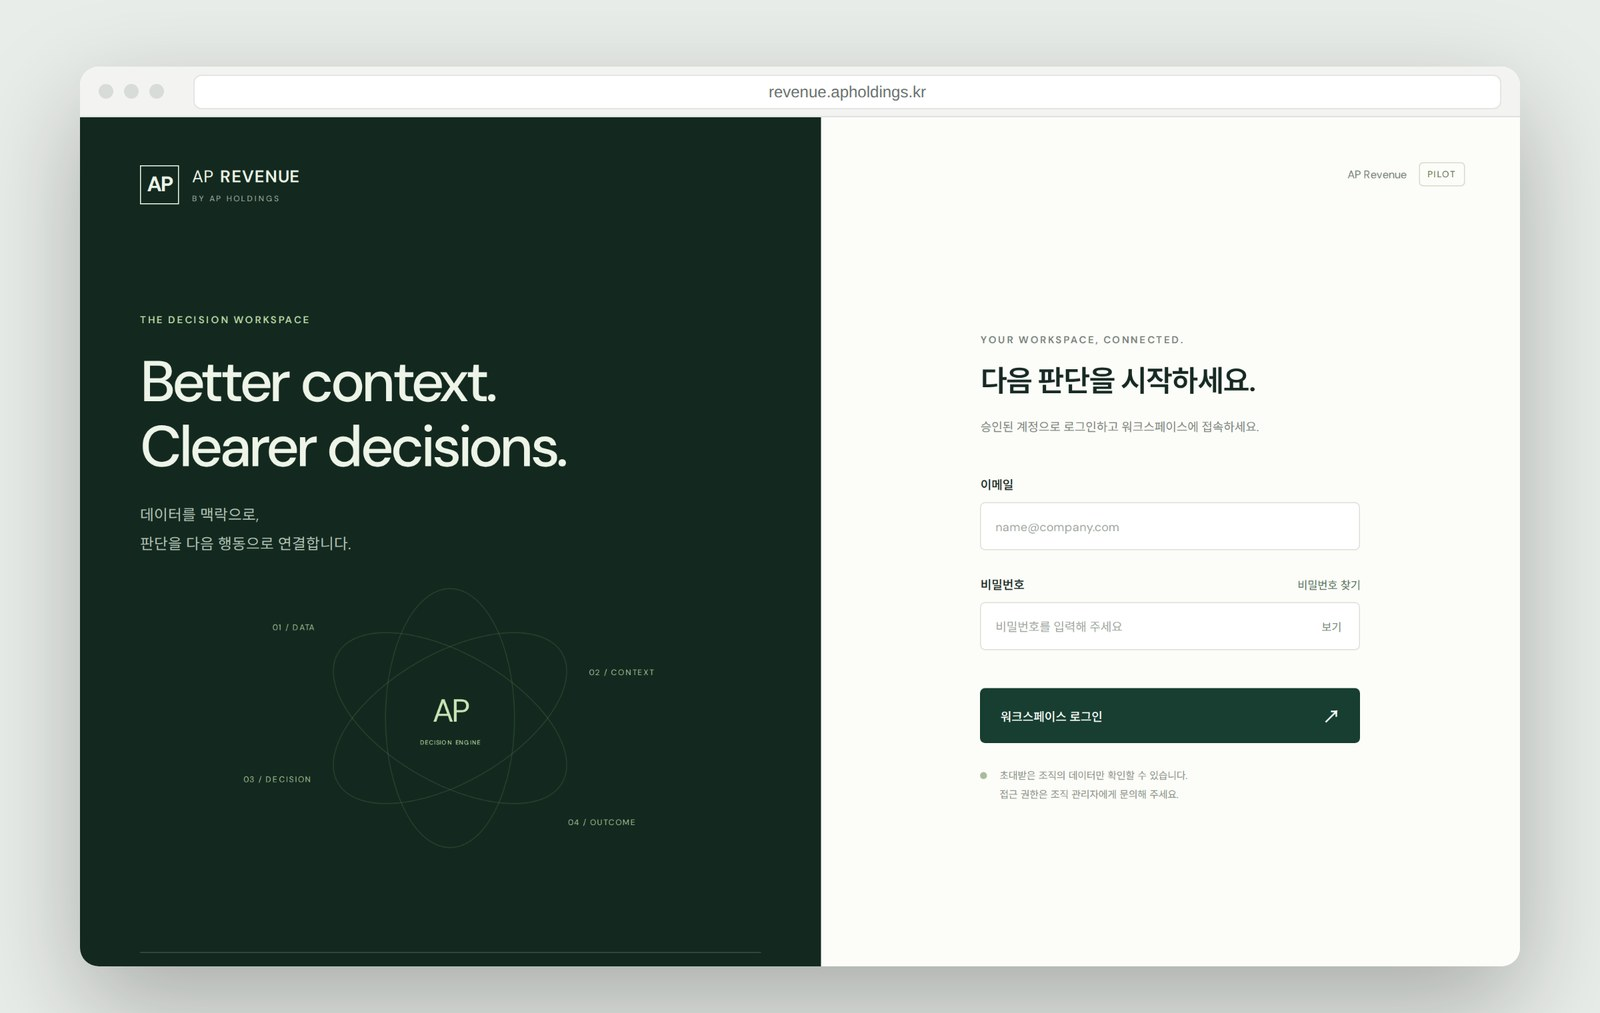
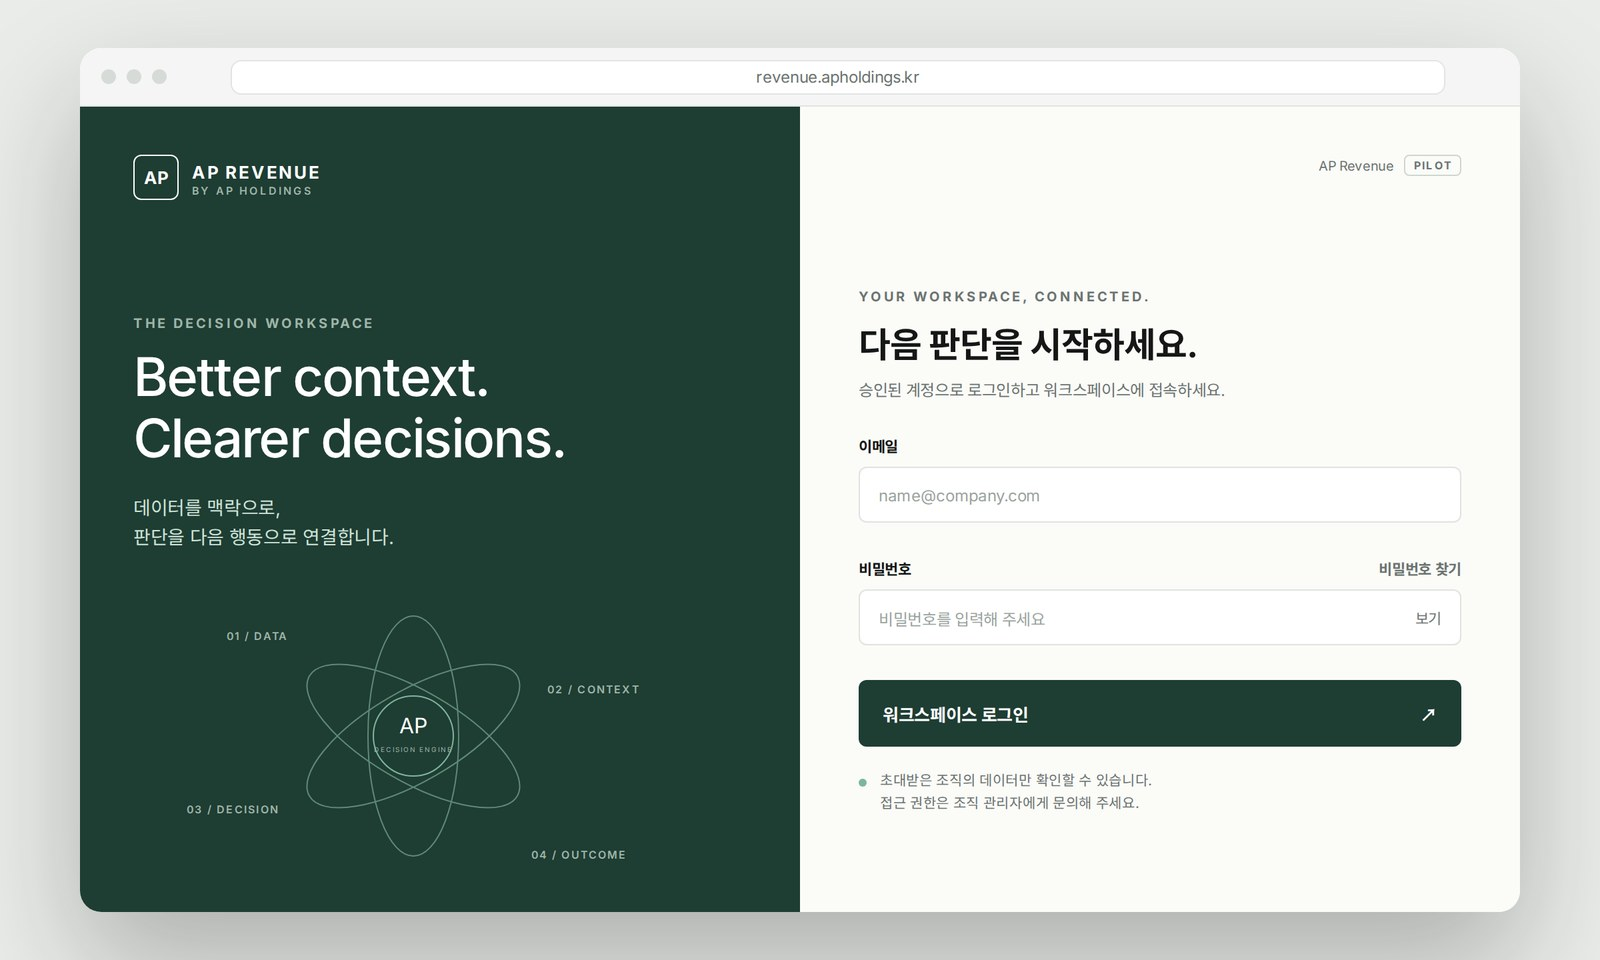
site: AP Revenue live scene redrawn (no screenshot), desktop+mobile KO/EN
Claude-Session: https://claude.ai/code/session_01WsGPQczCo9oamQacoYURTj

diff --git a/en/products/revenue/index.html b/en/products/revenue/index.html
@@ -2,4 +2,4 @@
 a decision list each morning.</h2></div><div class="intro-side"><p>Connect booking and cancellation data, and a “Today&#x27;s decisions” list is generated every morning. Priority · evidence · observed amount · recommended action, one line each. The final call is recorded by the manager.</p></div></div><figure class="pic" style="margin:0 0 45px"><div class="product-media" style="background:transparent;padding:0"><picture><source media="(max-width:800px)" srcset="/media/gfx/revenue_today_m_en.jpg"><img src="/media/gfx/revenue_today_en.jpg" alt="AP Revenue workspace — three decisions today, evidence · observed amount · accept/edit/hold" width="1600" height="900" loading="lazy" style="width:100%;max-height:none;border-radius:24px"></picture></div></figure></div></section><section class="section soft anchor" id="apply"><div class="wrap"><div class="section-intro"><div><span class="number">02 · How it connects</span><h2>Not installed inside the PMS.
 It sits beside it.</h2></div><div class="intro-side"><p>The PMS holds results; the CRS and channel manager hold future rates and inventory. AP Revenue sits beside them: anomaly detection · opportunity judgment · proposed actions · learning from outcomes. Only conditions approved by the manager go back to the CRS.</p><p class="note">PMS alone covers booking and cancellation analysis; pricing and inventory judgment follows once the CRS and channel manager are connected.</p></div></div><figure class="pic" style="margin:0 0 45px"><div class="product-media" style="background:transparent;padding:0"><picture><source media="(max-width:800px)" srcset="/media/gfx/revenue_apply_m_en.jpg"><img src="/media/gfx/revenue_apply_en.jpg" alt="PMS · CRS · competitor rates → AP Revenue engine → today&#x27;s decision queue → manager approval → CRS · channel manager → learning from outcomes" width="1600" height="900" loading="lazy" style="width:100%;max-height:none;border-radius:24px"></picture></div></figure><div class="tags"><span>Which channel or product cancellations cluster in</span><span>Which stay dates are selling slowly</span><span>Where to review price and inventory policy</span><span>NR · Semi-NR · cut-off · release — which to apply</span><span>Whether revenue and cancellations improved afterwards</span></div></div></section><section class="section anchor" id="value"><div class="wrap"><div class="section-intro"><div><span class="number">03 · What clients get</span><h2>Instead of comparing spreadsheets,
 decisions with evidence.</h2></div><div class="intro-side"><p>The same operating standard across properties. Easy-to-miss cancellation and channel anomalies caught early. “Why this decision” stays on record, and before/after results sharpen the standard.</p></div></div><figure class="pic" style="margin:0 0 45px"><div class="product-media" style="background:transparent;padding:0"><picture><source media="(max-width:800px)" srcset="/media/gfx/revenue_value_m_en.jpg"><img src="/media/gfx/revenue_value_en.jpg" alt="Spreadsheet comparison → a decision card with evidence, verified at 7 · 14 · 30 days" width="1600" height="900" loading="lazy" style="width:100%;max-height:none;border-radius:24px"></picture></div></figure></div></section><section class="section soft anchor" id="today"><div class="wrap"><div class="cta-block"><span class="number">04 · Today</span><h2>Today, in a live service.</h2><p>Synthetic data only · no real customer information
-11 tests passing · production deployment · invited organizations only.</p><div class="actions"><a class="button primary" href="https://revenue.apholdings.kr/">Open AP Revenue</a><a class="button" href="mailto:cksals00@gmail.com?subject=%5BAP%20Holdings%5D%20AP%20Revenue%20pilot%20inquiry">Pilot inquiry</a></div></div><figure class="wide" style="margin:0 0 45px"><div class="product-media" style="background:transparent;padding:0"><img src="/media/gfx/revenue_live.jpg" alt="revenue.apholdings.kr workspace sign-in screen" width="1600" height="900" loading="lazy" style="width:100%;max-height:none;border-radius:24px"></div></figure></div></section></main><footer class="site-footer"><div class="wrap"><div class="footer-contact" id="contact"><div><span class="eyebrow">CONTACT</span><h3>Build with AP.</h3><p>Let’s discuss product and technology, expert advisory, brand and commerce, global distribution, education and content, craft and artist collaboration, and pilots.</p></div><div><a class="contact-email" href="mailto:cksals00@gmail.com">cksals00@gmail.com</a><a class="button primary" href="mailto:cksals00@gmail.com?subject=%5BAP%20Holdings%5D%20Partnership%20enquiry">Contact AP Holdings</a></div></div><div class="footer-top"><a class="brand" href="/en/" aria-label="AP Holdings home"><span class="brand-mark"><img src="/img/ap_mark.png" alt="" width="29" height="14"></span>AP HOLDINGS</a><div class="footer-map"><div><b>AP Holdings</b><a class="" href="/en/about/">About</a><a class="" href="/en/ir/">IR / INVESTORS</a><a class="" href="/en/lab/">Founder’s Lab</a></div><div><b>Decision Intelligence</b><a class="" href="/en/products/safe/">AP Safe</a><a class="" href="/en/products/light/">AP Light</a><a class="" href="/en/products/revenue/">AP Revenue</a><a class="" href="/en/products/travel/">AP Travel</a></div><div><b>Commerce</b><a class="" href="/en/products/select/">AP SELECT</a><a class="" href="/en/products/commerce/">Global K-Commerce</a><a class="" href="/en/products/liaselect/">Lia Select</a><a class="" href="/en/products/craft/">AP K-Craft</a><a class="" href="/en/products/lia/">LIA</a></div><div><b>Play &amp; Learn</b><a class="" href="/en/products/rgrg/">RGRG</a><a class="" href="/en/products/cubs/">Hangeul Cubs</a><a class="" href="/en/products/lastwave/">LAST WAVE</a></div><div><b>Connectors</b><a class="" href="/business/safelist-connect.html">Safelist · Claude</a><a class="" href="/business/lightlist-connect.html">Lightlist · Claude</a></div></div></div><ul class="footer-policies" aria-label="Privacy policies"><li class="pol-label">App privacy policies</li><li><a class="" href="/safelist/privacy.html">Safelist</a></li><li><a class="" href="/hangeulcubs_privacy.html">Hangeul Cubs</a></li><li><a class="" href="/rgrg/privacy.html">RGRG</a></li><li><a class="" href="/irongrade/privacy.html">IRON GRADE</a></li><li><a class="" href="/theotherhours_privacy.html">The Other Hours</a></li><li><a class="" href="/kfan_privacy.html">K-Concert Trip</a></li><li><a class="" href="/privacy.html">나의 첫투자</a></li><li><a class="" href="/kscan/privacy.html">K-Scan</a></li><li><a class="" href="/goyo/privacy.html">Goyo</a></li></ul><div class="footer-bottom"><span>© 2026 AP Holdings. All rights reserved.</span><span>Built in Korea. Designed for the world.</span><a class="" href="#top">Back to top</a></div></div></footer></body></html>
+11 tests passing · production deployment · invited organizations only.</p><div class="actions"><a class="button primary" href="https://revenue.apholdings.kr/">Open AP Revenue</a><a class="button" href="mailto:cksals00@gmail.com?subject=%5BAP%20Holdings%5D%20AP%20Revenue%20pilot%20inquiry">Pilot inquiry</a></div></div><figure class="pic" style="margin:0 0 45px"><div class="product-media" style="background:transparent;padding:0"><picture><source media="(max-width:800px)" srcset="/media/gfx/revenue_live_m_en.jpg"><img src="/media/gfx/revenue_live_en.jpg" alt="revenue.apholdings.kr workspace sign-in screen" width="1600" height="900" loading="lazy" style="width:100%;max-height:none;border-radius:24px"></picture></div></figure></div></section></main><footer class="site-footer"><div class="wrap"><div class="footer-contact" id="contact"><div><span class="eyebrow">CONTACT</span><h3>Build with AP.</h3><p>Let’s discuss product and technology, expert advisory, brand and commerce, global distribution, education and content, craft and artist collaboration, and pilots.</p></div><div><a class="contact-email" href="mailto:cksals00@gmail.com">cksals00@gmail.com</a><a class="button primary" href="mailto:cksals00@gmail.com?subject=%5BAP%20Holdings%5D%20Partnership%20enquiry">Contact AP Holdings</a></div></div><div class="footer-top"><a class="brand" href="/en/" aria-label="AP Holdings home"><span class="brand-mark"><img src="/img/ap_mark.png" alt="" width="29" height="14"></span>AP HOLDINGS</a><div class="footer-map"><div><b>AP Holdings</b><a class="" href="/en/about/">About</a><a class="" href="/en/ir/">IR / INVESTORS</a><a class="" href="/en/lab/">Founder’s Lab</a></div><div><b>Decision Intelligence</b><a class="" href="/en/products/safe/">AP Safe</a><a class="" href="/en/products/light/">AP Light</a><a class="" href="/en/products/revenue/">AP Revenue</a><a class="" href="/en/products/travel/">AP Travel</a></div><div><b>Commerce</b><a class="" href="/en/products/select/">AP SELECT</a><a class="" href="/en/products/commerce/">Global K-Commerce</a><a class="" href="/en/products/liaselect/">Lia Select</a><a class="" href="/en/products/craft/">AP K-Craft</a><a class="" href="/en/products/lia/">LIA</a></div><div><b>Play &amp; Learn</b><a class="" href="/en/products/rgrg/">RGRG</a><a class="" href="/en/products/cubs/">Hangeul Cubs</a><a class="" href="/en/products/lastwave/">LAST WAVE</a></div><div><b>Connectors</b><a class="" href="/business/safelist-connect.html">Safelist · Claude</a><a class="" href="/business/lightlist-connect.html">Lightlist · Claude</a></div></div></div><ul class="footer-policies" aria-label="Privacy policies"><li class="pol-label">App privacy policies</li><li><a class="" href="/safelist/privacy.html">Safelist</a></li><li><a class="" href="/hangeulcubs_privacy.html">Hangeul Cubs</a></li><li><a class="" href="/rgrg/privacy.html">RGRG</a></li><li><a class="" href="/irongrade/privacy.html">IRON GRADE</a></li><li><a class="" href="/theotherhours_privacy.html">The Other Hours</a></li><li><a class="" href="/kfan_privacy.html">K-Concert Trip</a></li><li><a class="" href="/privacy.html">나의 첫투자</a></li><li><a class="" href="/kscan/privacy.html">K-Scan</a></li><li><a class="" href="/goyo/privacy.html">Goyo</a></li></ul><div class="footer-bottom"><span>© 2026 AP Holdings. All rights reserved.</span><span>Built in Korea. Designed for the world.</span><a class="" href="#top">Back to top</a></div></div></footer></body></html>

diff --git a/ko/products/revenue/index.html b/ko/products/revenue/index.html
@@ -11,4 +11,4 @@ AP Revenue는 그 옆에서
 놓치기 쉬운 취소·채널 이상을 조기에.
 「왜 이런 결정을 했는가」가 남고,
 실행 전후 성과로 기준이 좋아진다.</p></div></div><figure class="pic" style="margin:0 0 45px"><div class="product-media" style="background:transparent;padding:0"><picture><source media="(max-width:800px)" srcset="/media/gfx/revenue_value_m.jpg"><img src="/media/gfx/revenue_value.jpg" alt="엑셀 비교 → 근거가 남는 결정 카드, 7·14·30일 검증" width="1600" height="900" loading="lazy" style="width:100%;max-height:none;border-radius:24px"></picture></div></figure></div></section><section class="section soft anchor" id="today"><div class="wrap"><div class="cta-block"><span class="number">04 · 지금</span><h2>오늘, 실제 서비스에서.</h2><p>합성 데이터 전용 · 실제 고객 정보 사용 안 함
-테스트 11건 통과 · 프로덕션 배포 · 초대받은 조직만 접속.</p><div class="actions"><a class="button primary" href="https://revenue.apholdings.kr/">AP Revenue 바로가기</a><a class="button" href="mailto:cksals00@gmail.com?subject=%5BAP%20Holdings%5D%20AP%20Revenue%20%ED%8C%8C%EC%9D%BC%EB%9F%BF%20%EB%AC%B8%EC%9D%98">파일럿 문의</a></div></div><figure class="wide" style="margin:0 0 45px"><div class="product-media" style="background:transparent;padding:0"><img src="/media/gfx/revenue_live.jpg" alt="revenue.apholdings.kr 워크스페이스 로그인 화면" width="1600" height="900" loading="lazy" style="width:100%;max-height:none;border-radius:24px"></div></figure></div></section></main><footer class="site-footer"><div class="wrap"><div class="footer-contact" id="contact"><div><span class="eyebrow">CONTACT</span><h3>Build with AP.</h3><p>제품·기술 · 전문가 자문 · 브랜드·커머스 · 글로벌 유통 · 교육·콘텐츠 · 공예·작가 · 파일럿 협력</p></div><div><a class="contact-email" href="mailto:cksals00@gmail.com">cksals00@gmail.com</a><a class="button primary" href="mailto:cksals00@gmail.com?subject=%5BAP%20Holdings%5D%20Partnership%20enquiry">협력 문의</a></div></div><div class="footer-top"><a class="brand" href="/ko/" aria-label="AP Holdings home"><span class="brand-mark"><img src="/img/ap_mark.png" alt="" width="29" height="14"></span>AP HOLDINGS</a><div class="footer-map"><div><b>AP Holdings</b><a class="" href="/ko/about/">회사 소개</a><a class="" href="/ko/ir/">IR / INVESTORS</a><a class="" href="/ko/lab/">Founder’s Lab</a></div><div><b>Decision Intelligence</b><a class="" href="/ko/products/safe/">AP Safe</a><a class="" href="/ko/products/light/">AP Light</a><a class="" href="/ko/products/revenue/">AP Revenue</a><a class="" href="/ko/products/travel/">AP Travel</a></div><div><b>Commerce</b><a class="" href="/ko/products/select/">AP SELECT</a><a class="" href="/ko/products/commerce/">Global K-Commerce</a><a class="" href="/ko/products/liaselect/">Lia Select</a><a class="" href="/ko/products/craft/">K-Craft</a><a class="" href="/ko/products/lia/">LIA</a></div><div><b>Play &amp; Learn</b><a class="" href="/ko/products/rgrg/">RGRG</a><a class="" href="/ko/products/cubs/">Hangeul Cubs</a><a class="" href="/ko/products/lastwave/">LAST WAVE</a></div><div><b>커넥터</b><a class="" href="/business/safelist-connect.html">세이프리스트 · 클로드</a><a class="" href="/business/lightlist-connect.html">라이트리스트 · 클로드</a></div></div></div><ul class="footer-policies" aria-label="개인정보 처리방침"><li class="pol-label">앱 개인정보 처리방침</li><li><a class="" href="/safelist/privacy.html">Safelist</a></li><li><a class="" href="/hangeulcubs_privacy.html">Hangeul Cubs</a></li><li><a class="" href="/rgrg/privacy.html">RGRG</a></li><li><a class="" href="/irongrade/privacy.html">IRON GRADE</a></li><li><a class="" href="/theotherhours_privacy.html">The Other Hours</a></li><li><a class="" href="/kfan_privacy.html">K-Concert Trip</a></li><li><a class="" href="/privacy.html">나의 첫투자</a></li><li><a class="" href="/kscan/privacy.html">K-Scan</a></li><li><a class="" href="/goyo/privacy.html">Goyo</a></li></ul><div class="footer-bottom"><span>© 2026 AP Holdings. All rights reserved.</span><span>Built in Korea. Designed for the world.</span><a class="" href="#top">맨 위로</a></div></div></footer></body></html>
+테스트 11건 통과 · 프로덕션 배포 · 초대받은 조직만 접속.</p><div class="actions"><a class="button primary" href="https://revenue.apholdings.kr/">AP Revenue 바로가기</a><a class="button" href="mailto:cksals00@gmail.com?subject=%5BAP%20Holdings%5D%20AP%20Revenue%20%ED%8C%8C%EC%9D%BC%EB%9F%BF%20%EB%AC%B8%EC%9D%98">파일럿 문의</a></div></div><figure class="pic" style="margin:0 0 45px"><div class="product-media" style="background:transparent;padding:0"><picture><source media="(max-width:800px)" srcset="/media/gfx/revenue_live_m.jpg"><img src="/media/gfx/revenue_live.jpg" alt="revenue.apholdings.kr 워크스페이스 로그인 — 화면 재구성" width="1600" height="900" loading="lazy" style="width:100%;max-height:none;border-radius:24px"></picture></div></figure></div></section></main><footer class="site-footer"><div class="wrap"><div class="footer-contact" id="contact"><div><span class="eyebrow">CONTACT</span><h3>Build with AP.</h3><p>제품·기술 · 전문가 자문 · 브랜드·커머스 · 글로벌 유통 · 교육·콘텐츠 · 공예·작가 · 파일럿 협력</p></div><div><a class="contact-email" href="mailto:cksals00@gmail.com">cksals00@gmail.com</a><a class="button primary" href="mailto:cksals00@gmail.com?subject=%5BAP%20Holdings%5D%20Partnership%20enquiry">협력 문의</a></div></div><div class="footer-top"><a class="brand" href="/ko/" aria-label="AP Holdings home"><span class="brand-mark"><img src="/img/ap_mark.png" alt="" width="29" height="14"></span>AP HOLDINGS</a><div class="footer-map"><div><b>AP Holdings</b><a class="" href="/ko/about/">회사 소개</a><a class="" href="/ko/ir/">IR / INVESTORS</a><a class="" href="/ko/lab/">Founder’s Lab</a></div><div><b>Decision Intelligence</b><a class="" href="/ko/products/safe/">AP Safe</a><a class="" href="/ko/products/light/">AP Light</a><a class="" href="/ko/products/revenue/">AP Revenue</a><a class="" href="/ko/products/travel/">AP Travel</a></div><div><b>Commerce</b><a class="" href="/ko/products/select/">AP SELECT</a><a class="" href="/ko/products/commerce/">Global K-Commerce</a><a class="" href="/ko/products/liaselect/">Lia Select</a><a class="" href="/ko/products/craft/">K-Craft</a><a class="" href="/ko/products/lia/">LIA</a></div><div><b>Play &amp; Learn</b><a class="" href="/ko/products/rgrg/">RGRG</a><a class="" href="/ko/products/cubs/">Hangeul Cubs</a><a class="" href="/ko/products/lastwave/">LAST WAVE</a></div><div><b>커넥터</b><a class="" href="/business/safelist-connect.html">세이프리스트 · 클로드</a><a class="" href="/business/lightlist-connect.html">라이트리스트 · 클로드</a></div></div></div><ul class="footer-policies" aria-label="개인정보 처리방침"><li class="pol-label">앱 개인정보 처리방침</li><li><a class="" href="/safelist/privacy.html">Safelist</a></li><li><a class="" href="/hangeulcubs_privacy.html">Hangeul Cubs</a></li><li><a class="" href="/rgrg/privacy.html">RGRG</a></li><li><a class="" href="/irongrade/privacy.html">IRON GRADE</a></li><li><a class="" href="/theotherhours_privacy.html">The Other Hours</a></li><li><a class="" href="/kfan_privacy.html">K-Concert Trip</a></li><li><a class="" href="/privacy.html">나의 첫투자</a></li><li><a class="" href="/kscan/privacy.html">K-Scan</a></li><li><a class="" href="/goyo/privacy.html">Goyo</a></li></ul><div class="footer-bottom"><span>© 2026 AP Holdings. All rights reserved.</span><span>Built in Korea. Designed for the world.</span><a class="" href="#top">맨 위로</a></div></div></footer></body></html>
